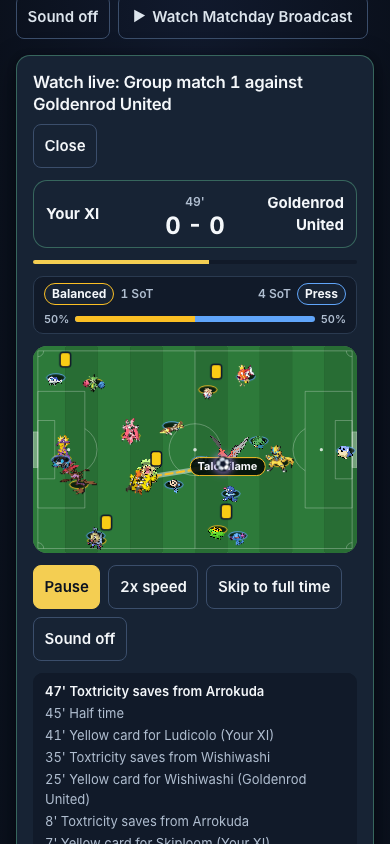
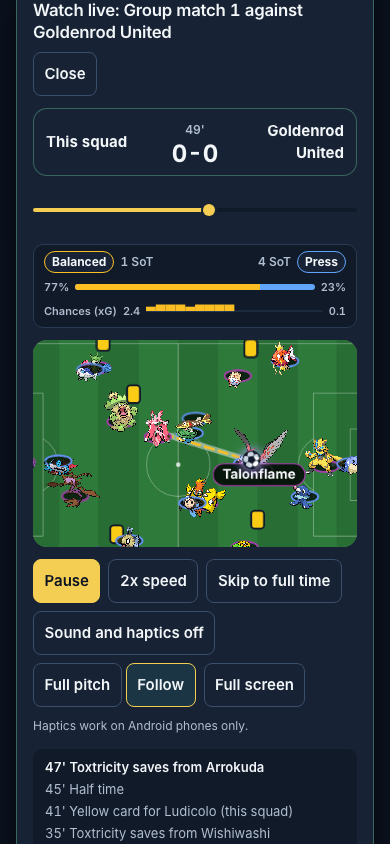
docs(broadcast): pins reconcile, merged-head gates and the refreshed solo proof
Claude-Session: https://claude.ai/code/session_01B42UQNamKyfVEBX8t4q2mR

Changed region(s): [[0.0308, 0.0, 0.9231, 1.0], [0.8308, 0.0616, 0.9538, 0.0924], [0.5231, 0.7085, 0.5538, 0.7393]]

diff --git a/docs/decisions/xg-river.md b/docs/decisions/xg-river.md
@@ -187,43 +187,76 @@ the viewport after the scoreboard scroll); the gaps above are the same in every 
 
 ## Specs that moved
 
-- `e2e/honest-momentum.spec.ts`: minutes 6 to 9 of golden cup8 G1 read `77%23%` (was `36%64%`).
-  The comment now names the territory (0.977) instead of the 3' save. 6t edits this file's token
-  line; this row changed only the comment above it and the four literals.
+Every re-pinned engine-output literal now comes from `e2e/pins.ts`, generated by
+`scripts/e2e/render-pins.ts` (`pnpm e2e:pins`, from #145). The generator's `timelineOf` builds each
+live-engine timeline with the story's territory, as `MatchPlayer` does (`storySource` decides, so
+retained runs keep the old lean). `liveRun` now carries the token's coach decisions, which the story
+needs. Old to new:
 
-- `e2e/set-pieces.spec.ts`, solo at cup8 G1 49': the defender who steps in is opp slot 5 (was
-  slot 3). The beaten defender is the nearest outfielder to the run (`timeline.ts` goal stage), and
-  the territory lean moves the shape. A probe of every frame at 48' to 50' showed the dribble, the
-  shot and Talonflame within 4 of the ball as before; only the presser changed. Opp slot 8 also
-  presses there, carried from the open play at 48'. Commit `626cc30`.
-- Full Playwright suite at `21fe650` (muted chromium config, `CI=1`, `--retries=0`, 4 workers):
-  1085 passed, 67 skipped, 1 failed (the solo spec above), 19.5 min. After the re-pin,
-  `e2e/set-pieces.spec.ts` alone at `626cc30`: 4 passed. The full suite was not rerun after the
-  re-pin.
+| Pin | Old | New | Why |
+| --- | --- | --- | --- |
+| `HONEST_MOMENTUM.second` (cup8 G1, minutes 6 to 9) | `36%64%` | `77%23%` | The bar follows the story's territory (0.977 for this squad in the first window) instead of the 3' save. |
+| `SET_PIECES.solo.presser` (cup8 G1 49') | `3` | `5` | The beaten defender is the nearest outfielder to the run's midpoint (`timeline.ts` solo stage); the territory lean moves the shape, so slot 5 is now nearest. |
+| `XG_RIVER` (new) | none | `G1`, 18 windows, `Chances so far: this squad 5.0, them 0.1` | The river spec's token, round, window count and full-time label, computed from `matchStory`, `riverTotals` and `riverLabel`. |
+
+No other pin moved: `pnpm e2e:pins` changed only these lines of `e2e/pins.ts`.
+
+The solo presser rule in the generator changed. #145 asked for a pressing defender ahead of the
+scorer at 260 ms and behind at 910 ms. Under the territory lean slot 5 starts upfield of the scorer
+(x 63 against 68 at 0 ms), reaches the run's midpoint level with them at 520 ms (75.2 against
+76.6) and is behind by the shot (75.2 against 82). No defender satisfied the old rule, so the rule
+is now: pressing at 520 ms, within 4 of the scorer's x at 520 ms, and behind them at 910 ms. Slot 8
+also presses there, carried from the open play at 48' (x 37.7), and is excluded by the level check.
+The visible effect is that the defender who steps in arrives from behind the runner instead of in
+front of them in this match; see Carryovers.
+
+History before the merge: the spec literals were re-pinned by hand in `21fe650` and `626cc30`; the
+merge took #145's pins structure and these values moved into the generator in `3d6a972`. The full
+suite at `21fe650` was 1085 passed, 67 skipped, 1 failed (the solo presser, then re-pinned).
+
+Full Playwright suite at `3d6a972` (muted chromium config, `CI=1`, headless, `--retries=0`, all
+projects): 1086 passed, 67 skipped, 0 failed, 18.8 min. `xg-river.spec.ts` 5 of 5,
+`honest-momentum.spec.ts` 1 of 1, `set-pieces.spec.ts` 4 of 4. After merging `origin/main` at
+`7045ccd` (#146), at `aaa64d2`: `grace-submit.spec.ts`, `xg-river.spec.ts`,
+`honest-momentum.spec.ts` and `set-pieces.spec.ts` together 14 passed. The full suite was not
+rerun after the #146 merge, which touched no broadcast file. `docs/reports/set-pieces/390-solo.png`
+is refreshed: it shows the 49' solo with the river and the 77% lean.
 
 ## Gates
 
-At `626cc30` (app code identical to `19213f6`; later commits touch only `e2e/` and
-`scripts/perf/`):
+At `aaa64d2` (after merging `origin/main` at `7045ccd`, #146):
 
 - `pnpm lint`: exit 0. `pnpm typecheck`: exit 0.
-- `pnpm test`: 233 files, 2054 tests passed.
+- `pnpm test`: 235 files, 2073 tests passed.
 - `pnpm build`: exit 0.
 - `check-retained-replays.mts .next/server/chunks`: 10 emitted golden replays passed, exit 0.
 - `measure-retained-json.mjs .next/server/chunks`: exit 0, 4 copies, 2,891,853 payload bytes.
 - All nine `check:*` scripts: exit 0.
-- `prettier --check` on every file touched since `969ca1c`: clean.
-- `pnpm vitest run src/ui/matchday/__tests__ src/components/matchday`: 53 files, 352 tests passed.
-- `git diff 969ca1c..HEAD -- src/engine src/scouting scripts/data src/data`: empty.
+- `pnpm e2e:pins --check`: `e2e/pins.ts is current`.
+- `pnpm vitest run scripts/e2e src/ui/matchday/__tests__ src/components/matchday
+  src/components/results/__tests__/MatchReplay.test.tsx`: 56 files, 368 tests passed.
+- `prettier --check` on every file this branch changes against `origin/main`: clean.
+- `cmp` of `src/engine/__tests__/goldens.test.ts` against `origin/main`: identical (exit 0).
+- `git diff origin/main..HEAD -- src/engine src/scouting scripts/data src/data`: empty.
+
+At `3d6a972` (after the #144 and #145 merge): lint, typecheck and build exit 0, 233 files and
+2058 tests passed, `pnpm vitest run scripts/e2e` 2 files and 5 tests passed, and the full
+Playwright suite as above.
 
 ## NOT RUN
 
+- The full Playwright suite after the #146 merge (`aaa64d2`).
 - Review (GLM and the fallback reviewer) and hosted CI: the coordinator runs them.
 - The new spec on WebKit and the phone projects (it runs on chromium only, with explicit
   viewports).
 - The phone check and the screen reader pass (owner actions, Wave 6 session).
 
 ## Carryovers
+
+- The solo goal's beaten defender is the nearest outfielder to the run's midpoint, wherever it
+  starts. Under the territory lean it can start upfield of the scorer and arrive from behind (cup8
+  G1 49'). Picking the nearest defender ahead of the scorer would restore "dribbles past"; that is
+  a staging change for the next broadcast row, not this one.
 
 - Exhibitions draw no river. They would need a story built from `simulateMatch`'s input, which is
   an engine change.

diff --git a/STATE.md b/STATE.md
@@ -12,9 +12,15 @@ Branch `feat/xg-river` off `origin/main` at `969ca1c`. Wave 6 row 6a2 (Yellow). 
 - Goal lines in the ticker can add "Late drama at 86'", "Tapu Koko's second" (or hat-trick) and "Against the run of play" when the run's chances back it.
 - A friend's link on the live engine shows the river with "this squad" for "you". Retained runs (older engine links) and exhibitions show no river and keep the old lean; Quick view shows no river.
 
-RED commit: `5fbf33a` (unit 24 of 57 failed in the five touched test files). GREEN `19213f6`. `21fe650` adds `e2e/xg-river.spec.ts` and `scripts/perf/story-timing.mts`. `1749ebc` merges `origin/main` at `2992500` (#144, #145). `3d6a972` builds the generated pins' timelines with the story's territory, as `MatchPlayer` does, and adds an `XG_RIVER` pin. Pins that moved: `HONEST_MOMENTUM.second` `36%64%` to `77%23%`, `SET_PIECES.solo.presser` `3` to `5` (the solo presser rule now asks for a defender level with the scorer mid-run and behind by the shot, since under the territory lean it steps in from upfield). No other pin moved. FILL_MERGE2
+RED commit: `5fbf33a` (unit 24 of 57 failed in the five touched test files). GREEN `19213f6`. `21fe650` adds `e2e/xg-river.spec.ts` and `scripts/perf/story-timing.mts`. `1749ebc` merges `origin/main` at `2992500` (#144, #145). `3d6a972` builds the generated pins' timelines with the story's territory, as `MatchPlayer` does, and adds an `XG_RIVER` pin. Pins that moved: `HONEST_MOMENTUM.second` `36%64%` to `77%23%`, `SET_PIECES.solo.presser` `3` to `5` (the solo presser rule now asks for a defender level with the scorer mid-run and behind by the shot, since under the territory lean it steps in from upfield). No other pin moved. `aaa64d2` merges `origin/main` at `7045ccd` (#146).
 
-FILL_GATES_STATE
+Gates at `aaa64d2`:
+
+- `pnpm lint`, `pnpm typecheck` and `pnpm build` exited 0. `check-retained-replays.mts` (10 golden replays), `measure-retained-json.mjs` (4 copies) and all nine `check:*` scripts exited 0. `pnpm e2e:pins --check` current. Prettier passed on every touched file. `goldens.test.ts` is byte-identical to `origin/main`.
+- Unit tests: 2,073 passed in 235 files. Touched tests (`scripts/e2e`, matchday UI, `MatchReplay`): 368 passed in 56 files.
+- Playwright (`CI=1`, headless, muted, `--retries=0`), the full suite at `3d6a972` (after #144 and #145): 1,086 passed, 67 skipped, 0 failed. At `aaa64d2`: `grace-submit`, `xg-river`, `honest-momentum` and `set-pieces` specs 14 passed.
+- Story cost at 4x CPU throttle: at most 29.6 ms for one match, 108 to 153 ms for a cup's six. River layout at 390, 360, 320 and 308 px: 6 px under the meter, 11 px inside the HUD, no overlap, no page scroll.
+- NOT RUN: the full suite after the #146 merge, the new spec on WebKit and the phone projects, review and hosted CI, the phone check and screen reader pass.
 
 Decision log: `docs/decisions/xg-river.md`. Browser proof: `docs/reports/xg-river/` (`river-{30,ht,ft}-{390,360,320}.png`) and `docs/reports/set-pieces/390-solo.png`. Merge status, the squash SHA and the reviewer receipt go into the next STATE update.
 
